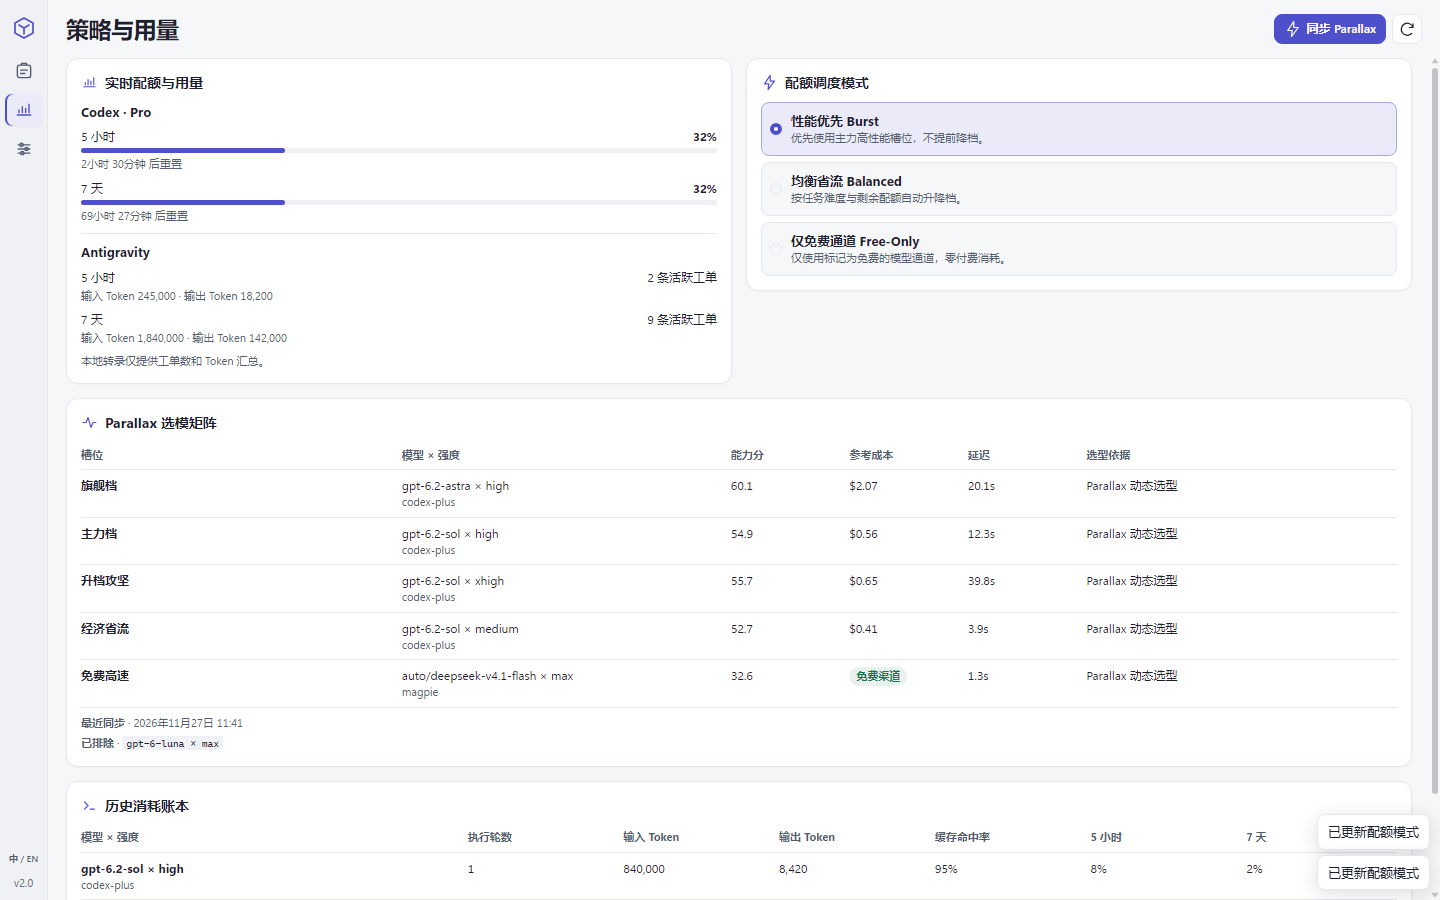
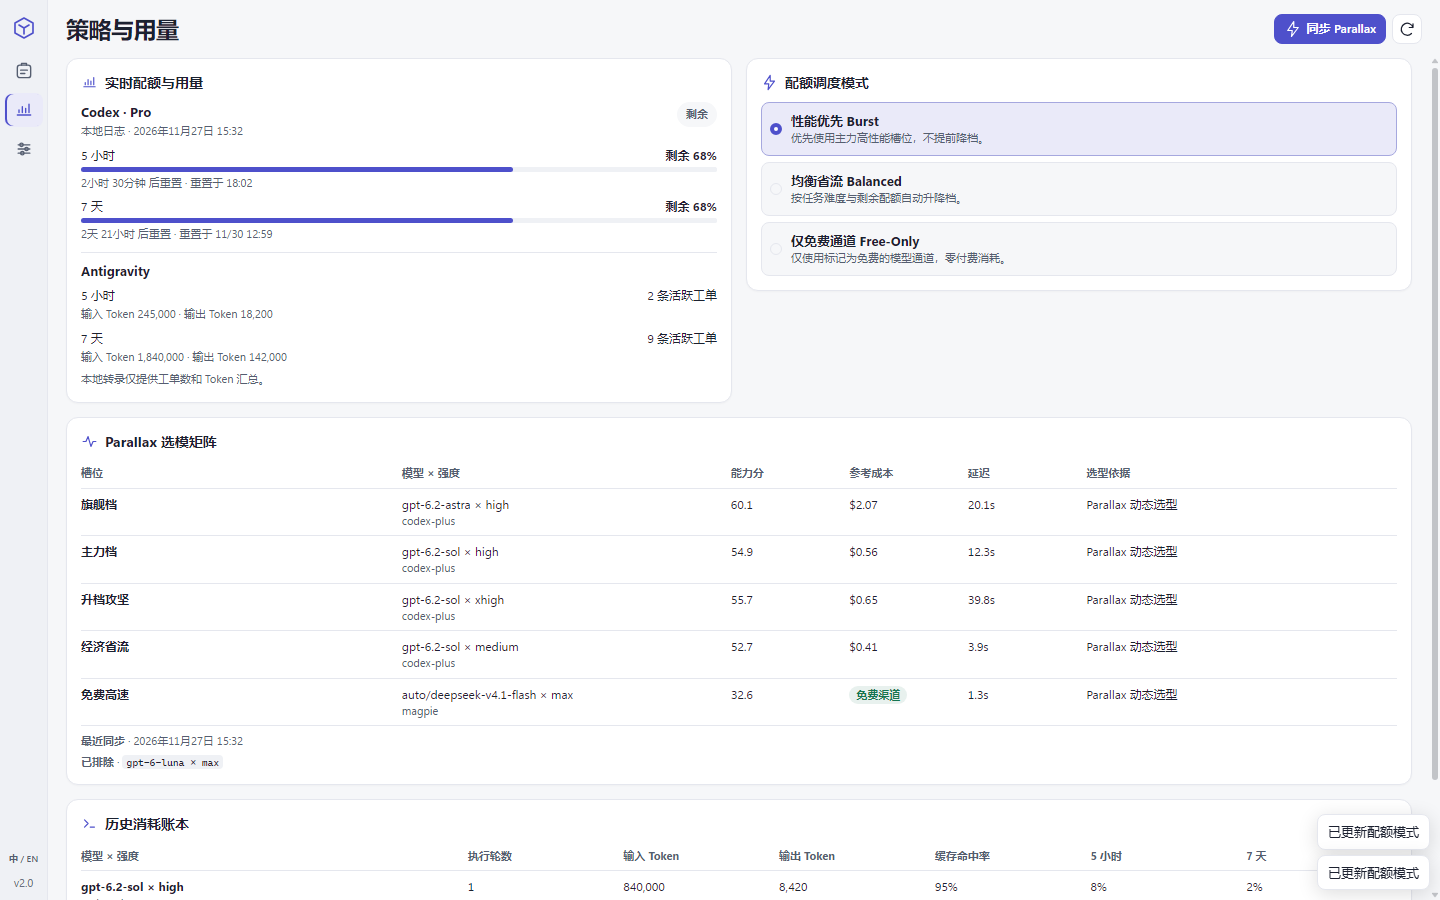
feat(ui): default to remaining quota with Magpie-style toggle, reset clock & auto-refresh on routing tab

diff --git a/src/ui/styles/components.css b/src/ui/styles/components.css
@@ -170,6 +170,9 @@ details[open] > summary::before { transform: rotate(135deg); }
 /* 配额监控、策略槽位与历史账本。 */
 .quota-section { display: grid; gap: 6px; margin-top: 9px; }
 .quota-section + .quota-section { padding-top: 8px; border-top: 1px solid var(--border-subtle); }
+.quota-head { display: flex; align-items: flex-start; justify-content: space-between; gap: 8px; }
+.quota-head > div { display: grid; gap: 2px; }
+.quota-toggle { flex: none; padding: 2px 9px; font-size: 11px; border-radius: 999px; }
 .quota-meter { display: grid; gap: 3px; }
 .quota-meter small, .quota-caption small { color: var(--muted); }
 .quota-caption { display: grid; grid-template-columns: minmax(0, 1fr) minmax(0, auto); gap: 2px 7px; font-size: 12px; }
@@ -178,6 +181,9 @@ progress { width: 100%; height: 5px; border: 0; border-radius: 10px; background:
 progress::-webkit-progress-bar { background: var(--bg-rail); border-radius: 10px; }
 progress::-webkit-progress-value { background: var(--accent); border-radius: 10px; }
 progress::-moz-progress-bar { background: var(--accent); border-radius: 10px; }
+progress.is-low { accent-color: var(--amber); }
+progress.is-low::-webkit-progress-value { background: var(--amber); }
+progress.is-low::-moz-progress-bar { background: var(--amber); }
 .mode-options { display: grid; gap: 6px; margin-top: 9px; }
 .mode-options button { display: grid; grid-template-columns: 13px minmax(0, 1fr); align-items: center; gap: 8px; padding: 8px; border: 1px solid var(--border-subtle); border-radius: 8px; text-align: start; background: var(--bg-canvas); overflow-wrap: anywhere; }
 .mode-options button[aria-pressed="true"] { background: var(--accent-soft); border-color: color-mix(in srgb, var(--accent) 42%, var(--border-subtle)); }
